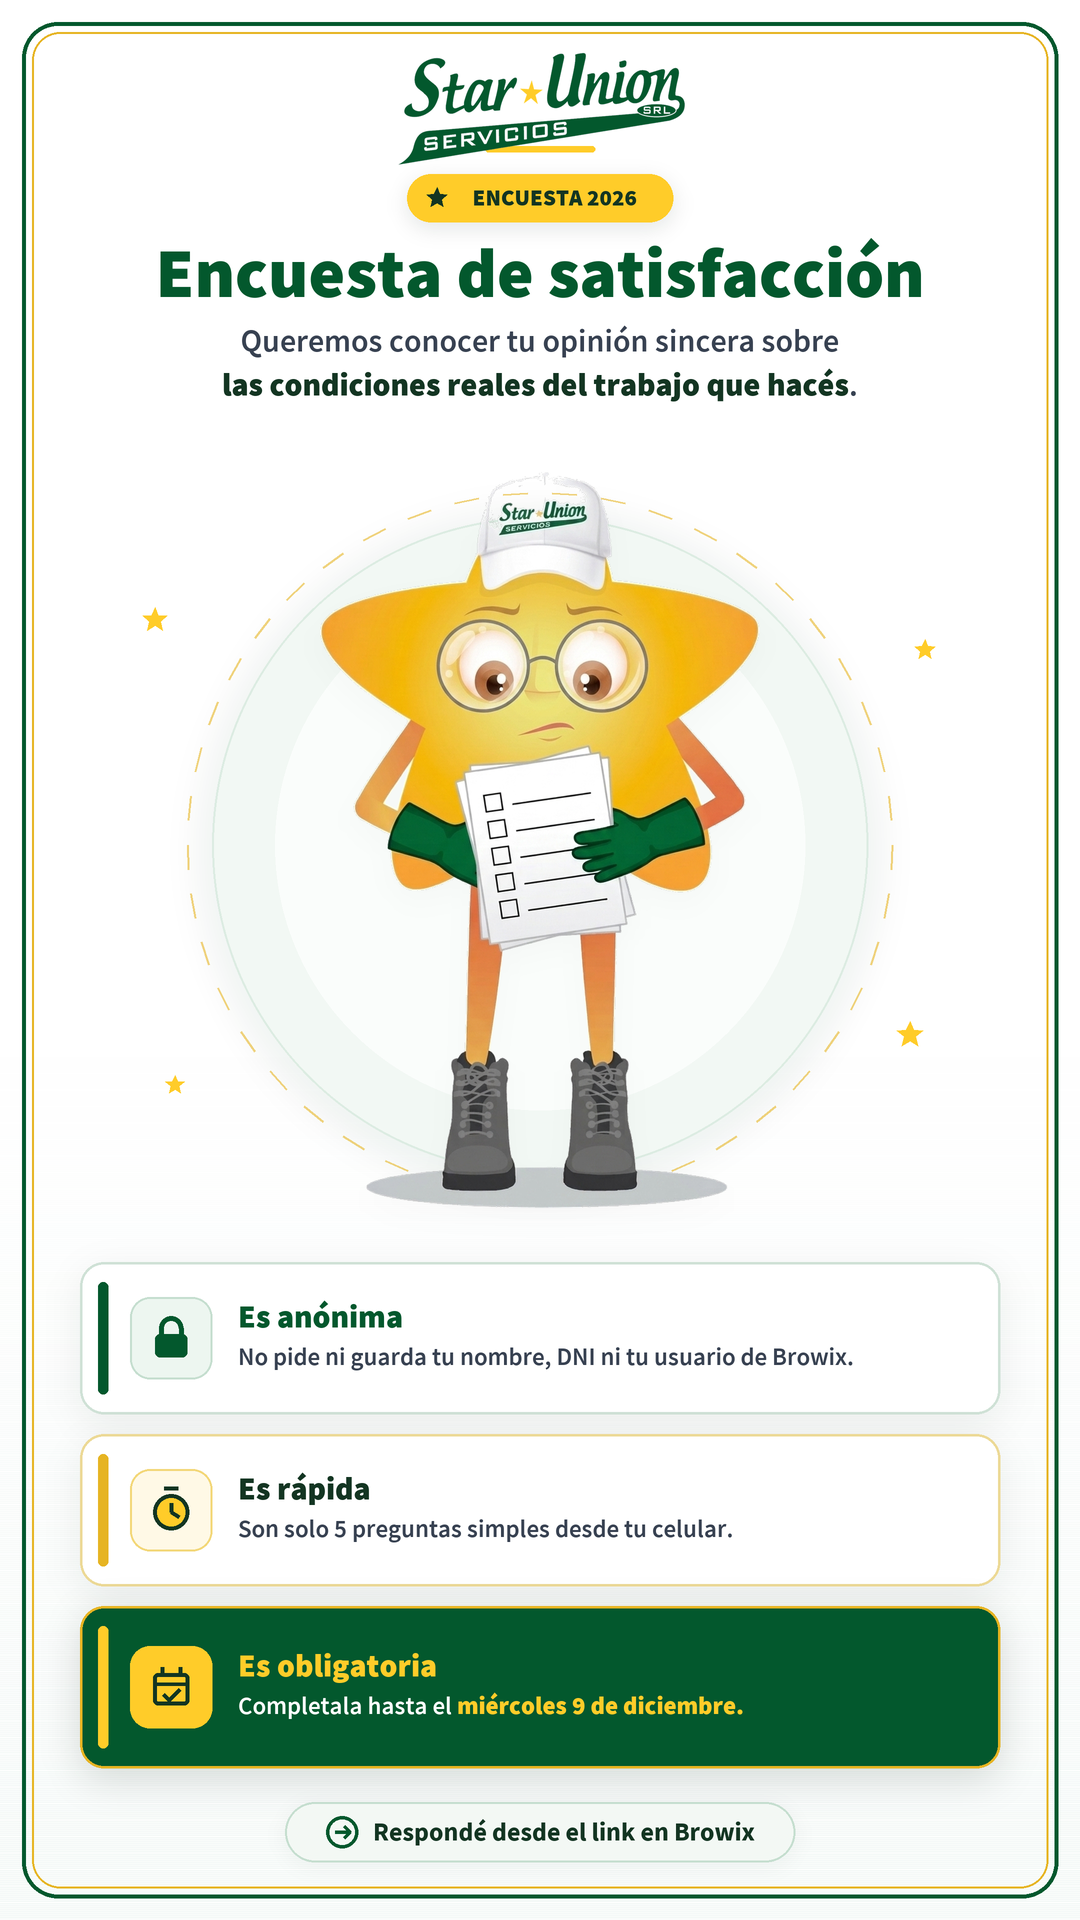
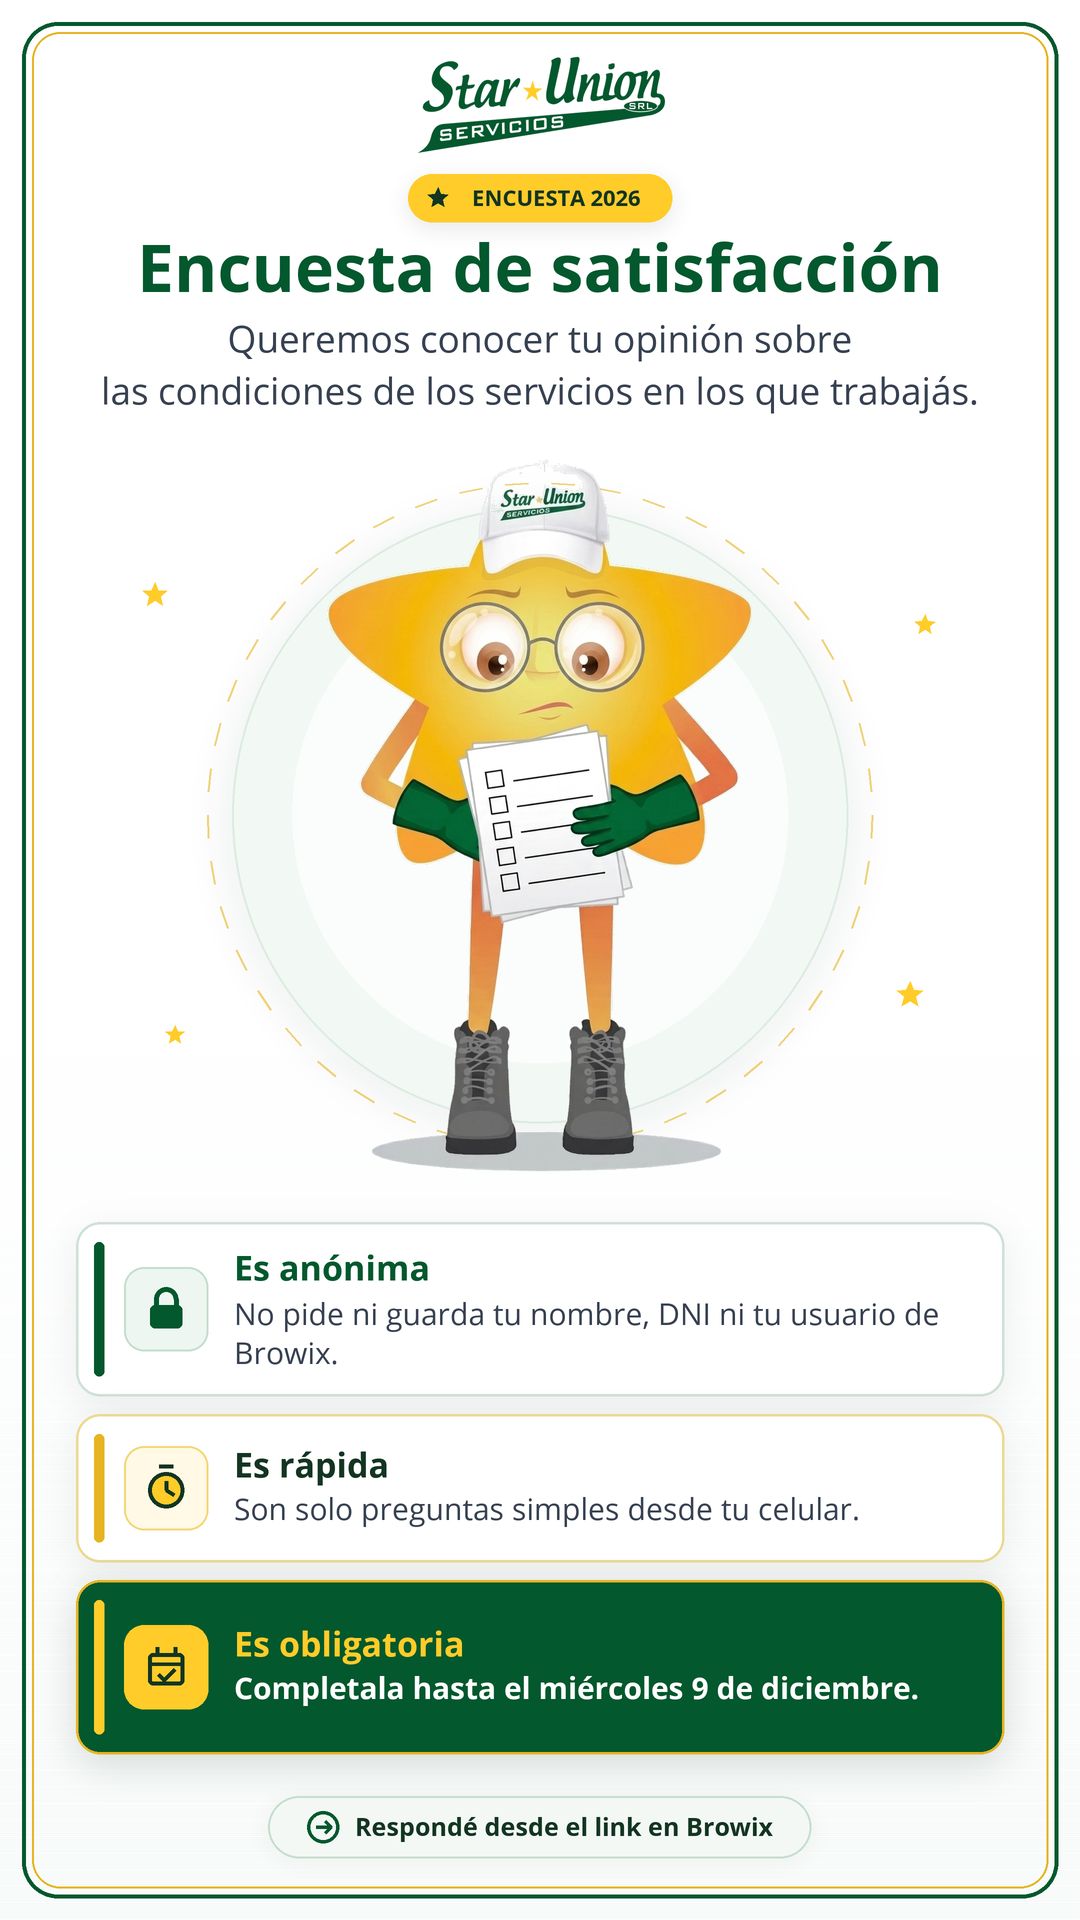
Persist Open Sans, floor shadow, and Drive archiving rules; add 1600x400 Google Form header and updated Browix poster

diff --git a/MEMORIA_VIVA_ACUERDOS_STAR_UNION.md b/MEMORIA_VIVA_ACUERDOS_STAR_UNION.md
@@ -288,3 +288,36 @@ Prohibido usar un único tono plano para todo Star Union. El sistema distingue o
        - **A. Sorteos (`pack2_vouchers_sorteo_imprimir_2026.pdf`):** Recuadro blanco limpio para escribir el monto a mano.
        - **B. Regalo Oficina Central (`pack2_vouchers_regalo_oficina_2026.pdf`):** Recuadro blanco limpio para escribir el nombre a mano + línea `Equivale a $ _______________________` (jamás `[NOMBRE Y APELLIDO]` ni `$ 000.000`).
      - **Editor Rápido en Pantalla (Recuadro independiente abajo con su propia barra de cabecera pegada al A4 y pastillas `✦ 2027 ✦`):** Permite tipear los 4 nombres y montos directo en el navegador y tocar `🖨 Imprimir / Guardar Hoja A4` saliendo 100% limpio sin bordes ni botones.
+
+---
+
+## 17. REGLAS INNEGOCIABLES DE CANVA (`OPEN SANS`), LECTURA OBRERA EN CELULAR, SOMBRA DE CLEANY Y ARCHIVO EN DRIVE (CORRECCIÓN DIRECTA DE ARIANA — 24-NOV-2026)
+
+1. **Tipografía Oficial en Canva (`Kit de Marca SU` ID `kAEzynfV2TU`) = `Open Sans` (`fontRef: "YAFdJt8dAY0,1"`):**
+   - Prohibido dejar la fuente genérica por defecto de Canva (`YACgEZ1cb1Q,0`). Todo diseño de Star Union en Canva debe salir con **`Open Sans`** (`YAFdJt8dAY0,1`), usando `brand_kit_id: "kAEzynfV2TU"` al crear diseños nuevos o duplicando diseños base de `Open Sans` como `DAHb2hn2gXs`.
+2. **Escala Tipográfica para Personal Operario en Celular (`1080×1920`, Browix / WhatsApp):**
+   - La persona trabajadora abre el comunicado en su celular en casa o en el objetivo: las letras chicas no se leen.
+   - Escala validada por Ariana sobre `DAHb2hn2gXs`: título **`68 px` Bold**, bajada **`40 px`**, títulos de tarjetas **`35 px` Bold**, cuerpo de tarjetas **`32 px`**, pie de acción **`25 px` Bold**.
+3. **Sombra de Cleany Siempre Apoyada en el Piso Bajo los Borcegos:**
+   - La sombra de Cleany vive **únicamente como elipse de apoyo en el piso debajo de las suelas de sus borcegos** (como en `cleany_anteojos_lupa.png`), jamás como sombra difusa flotando alrededor del cuerpo estrella.
+4. **Doble Guardado Obligatorio para Comodidad de Ariana y RRHH (Web de Entrega + Carpeta Ordenada en Google Drive):**
+   - Además de publicar los entregables en la web (`wajntraub.ar/staruniontest/...`), **todo archivo generado (`.mp4`, `.jpg`, `.png`, `.pdf`) + un `.txt` con los links editables de Canva, URLs y escritos finales** debe guardarse agrupado por campaña dentro de Google Drive:
+     `/Users/arianawajntraub/Library/CloudStorage/GoogleDrive-ariana@starunionservicios.com.ar/Mi unidad/su para AG/COMUNICACION_INTERNA_RRHH_2026/`
+5. **Encuesta Anual de Satisfacción 2026 (Browix + Header Google Forms `1600×400 px`) — Escrito y Placa Modelo Aprobados por Ariana:**
+   - **Texto modelo definitivo aprobado para pegar en Browix (limpio, sin asteriscos, tono directo y humano):**
+     > `¡Hola!`
+     > `Abrimos la encuesta anual de satisfacción 2026 de Star Union. Queremos conocer tu opinión sincera y tus ideas sobre las condiciones de tu trabajo, para mejorar día a día.`
+     > `Son 5 preguntas cortas y la completás rápido.`
+     > `¿Por qué es anónima y obligatoria?`
+     > `• Anónima: aunque entrás desde Browix, el link de este anuncio abre un formulario externo que no pide ni guarda tu nombre, DNI ni usuario de Browix. Tus respuestas llegan sin datos personales y podés contestar con total confianza.`
+     > `• Obligatoria: necesitamos que participe todo el equipo para conocer la realidad de todos los servicios.`
+     > `Tenés tiempo hasta el miércoles 9 de diciembre.`
+     > `Entrá acá para completar la encuesta: https://docs.google.com/forms/d/e/1FAIpQLSckj4EjAdYCrdfdVEqyQeXIo_aX41urCfj5IfLlP4_i-XYlig/viewform?usp=dialog`
+     > `Muchas gracias por tu tiempo y por tu dedicación.`
+     > `Recursos Humanos · Star Union`
+   - **Microcopy definitivo aprobado en la placa vertical (`DAHb2hn2gXs`):**
+     - Bajada: `Queremos conocer tu opinión sobre las condiciones de los servicios en los que trabajás.`
+     - Tarjeta 1 (`Es anónima`): `No pide ni guarda tu nombre, DNI ni tu usuario de Browix.`
+     - Tarjeta 2 (`Es rápida`): `Son solo preguntas simples desde tu celular.`
+     - Tarjeta 3 (`Es obligatoria`): `Completala hasta el miércoles 9 de diciembre.`
+   - **Medida exacta oficial para Google Forms Header:** **`1600 × 400 px`** (`4:1` horizontal), llevando el logo a la izquierda, pastilla/título/bajada en el centro y **Mini Cleany con anteojos lupa y su sombra en el piso** a la derecha.

diff --git a/GEMINI.md b/GEMINI.md
@@ -83,8 +83,12 @@
 8. **Lista blanca visual HD (prohibidas fotos viejas de `brochures/img/`):** Usar **solo** fotos HD curadas vistas antes con `read_file` (`assets/img/operario-uniforme-hd.jpg`, `assets/img/perfit-curadas/perfit-*.jpg`, `brochures/img/*-hd.jpg`, `assets/img/base-guamini-*.jpg`), con 0 fotos con barbijo, 0 virajes azul/verde y **0 fotos repetidas** ni dentro de una pieza ni entre placas 1–4 de la semana.
 
 ## 10. ESTÁNDAR DE COMUNICACIÓN INTERNA (RRHH / EMILIANA ABAL) Y SISTEMA VISUAL FIESTAS 2026–2027 (PACK 2)
-- **Detalle completo en:** `MEMORIA_VIVA_ACUERDOS_STAR_UNION.md` (Sección 16).
+- **Detalle completo en:** `MEMORIA_VIVA_ACUERDOS_STAR_UNION.md` (Sección 16 y 17).
 - **Voz y Redacción Interna:** 1ª persona plural (`nosotros`) **solo** para acciones de la empresa; 2ª persona (`vos` / `"¿Qué aprenderás?"`) para acciones de quien trabaja. Cero marca de género (`¡Hola!`, `Te damos la bienvenida`, `Supervisión Zonal`, `Formación de líderes de equipo (rol de Encargado)`, `el personal que actualmente ejerce el rol de Encargado`, `personal operario`). Negritas **solo** en datos duros accionables y dirección fija **`Guaminí 5657`**.
+- **Tipografía Oficial en Canva (`Kit de Marca SU · ID kAEzynfV2TU`) y Lectura Obrera en Celular:** Usar SIEMPRE **`Open Sans`** (`fontRef: "YAFdJt8dAY0,1"`, prohibido dejar la default `Canva Sans`), en cuerpos grandes pensados para personal operario abriendo Browix/WhatsApp desde el celular (`68px` título, **`40px`** bajada, **`35px`** subtítulos de tarjeta, **`32px`** cuerpo).
+- **Sombra de Cleany Siempre en el Piso:** La sombra de Cleany es únicamente la elipse de piso debajo de las suelas de sus borcegos; prohibido agregar sombras difusas flotantes detrás del cuerpo.
+- **Doble Guardado Obligatorio (Web de Entrega + Google Drive Agrupado):** Además de subir a `wajntraub.ar/staruniontest/`, copiar cada `.mp4`, `.jpg`, `.png`, `.pdf` y archivo `.txt` con links y escritos a `/Mi unidad/su para AG/COMUNICACION_INTERNA_RRHH_2026/` agrupado por campaña.
+- **Header Oficial Google Forms:** **`1600 × 400 px`** (`4:1`) horizontal con logo Star Union, `Open Sans` y Mini Cleany con anteojos lupa apoyado sobre sombra en el piso.
 - **Sistema Visual Fiestas 2026–2027 (`PACK 2 · Cero Alcohol`):** Burbujas doradas ascendentes + marco doble verde (`#03582d`) y dorado (`#e6b422`) sobre fondo `#fcfbf7` + emblema Pino Estrella + `Cleany Navidad Oficial` (`MAF43uK52bA` / `MAF43mgca38`, gorrito rojo con franja blanca Star Union, sin alterar jamás su estructura, guantes ni borcegos). Esta matriz rige invitaciones (18/12 y próximas fechas), vouchers (`✦ 2027 ✦`), saludo interno y saludo a clientes.
 - **Formato de Entrega a RRHH (`/comunicacion-interna/almuerzo-2026/entrega/`):**
   1. **WhatsApp:** Video vertical `.MP4` (`1080x1920`) con música navideña (`fade-in/out`) + escrito con asteriscos.
